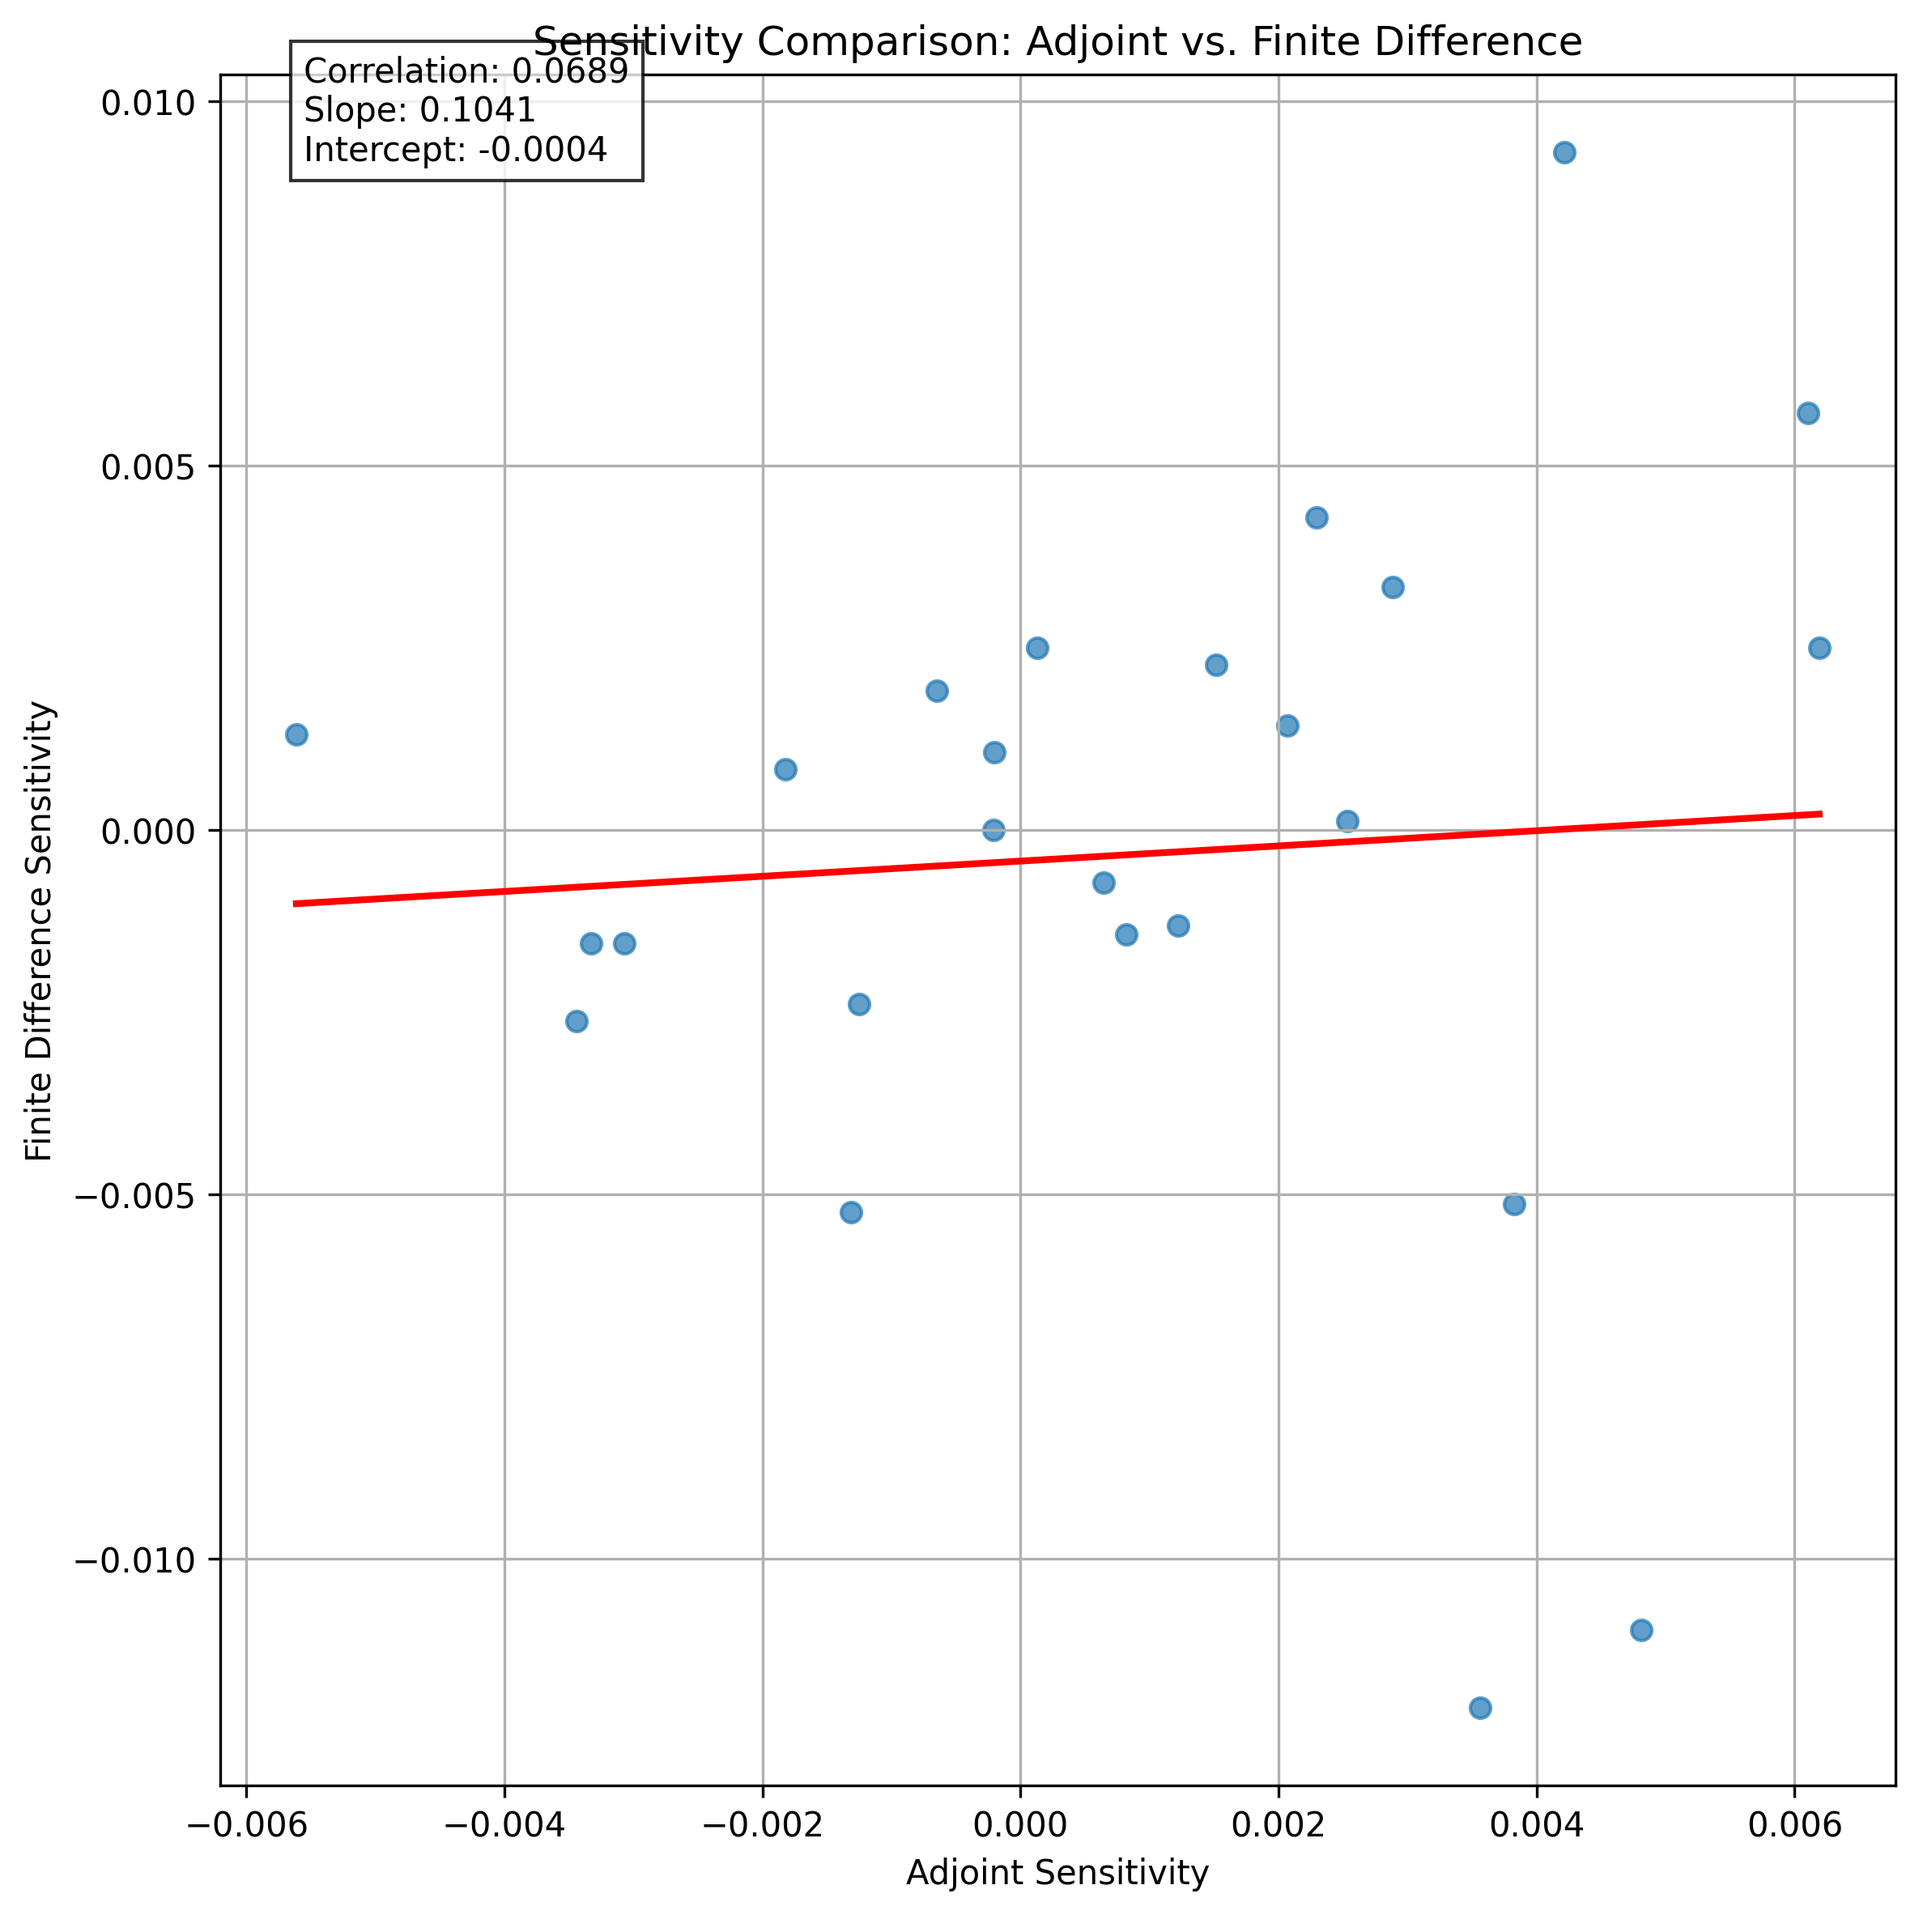
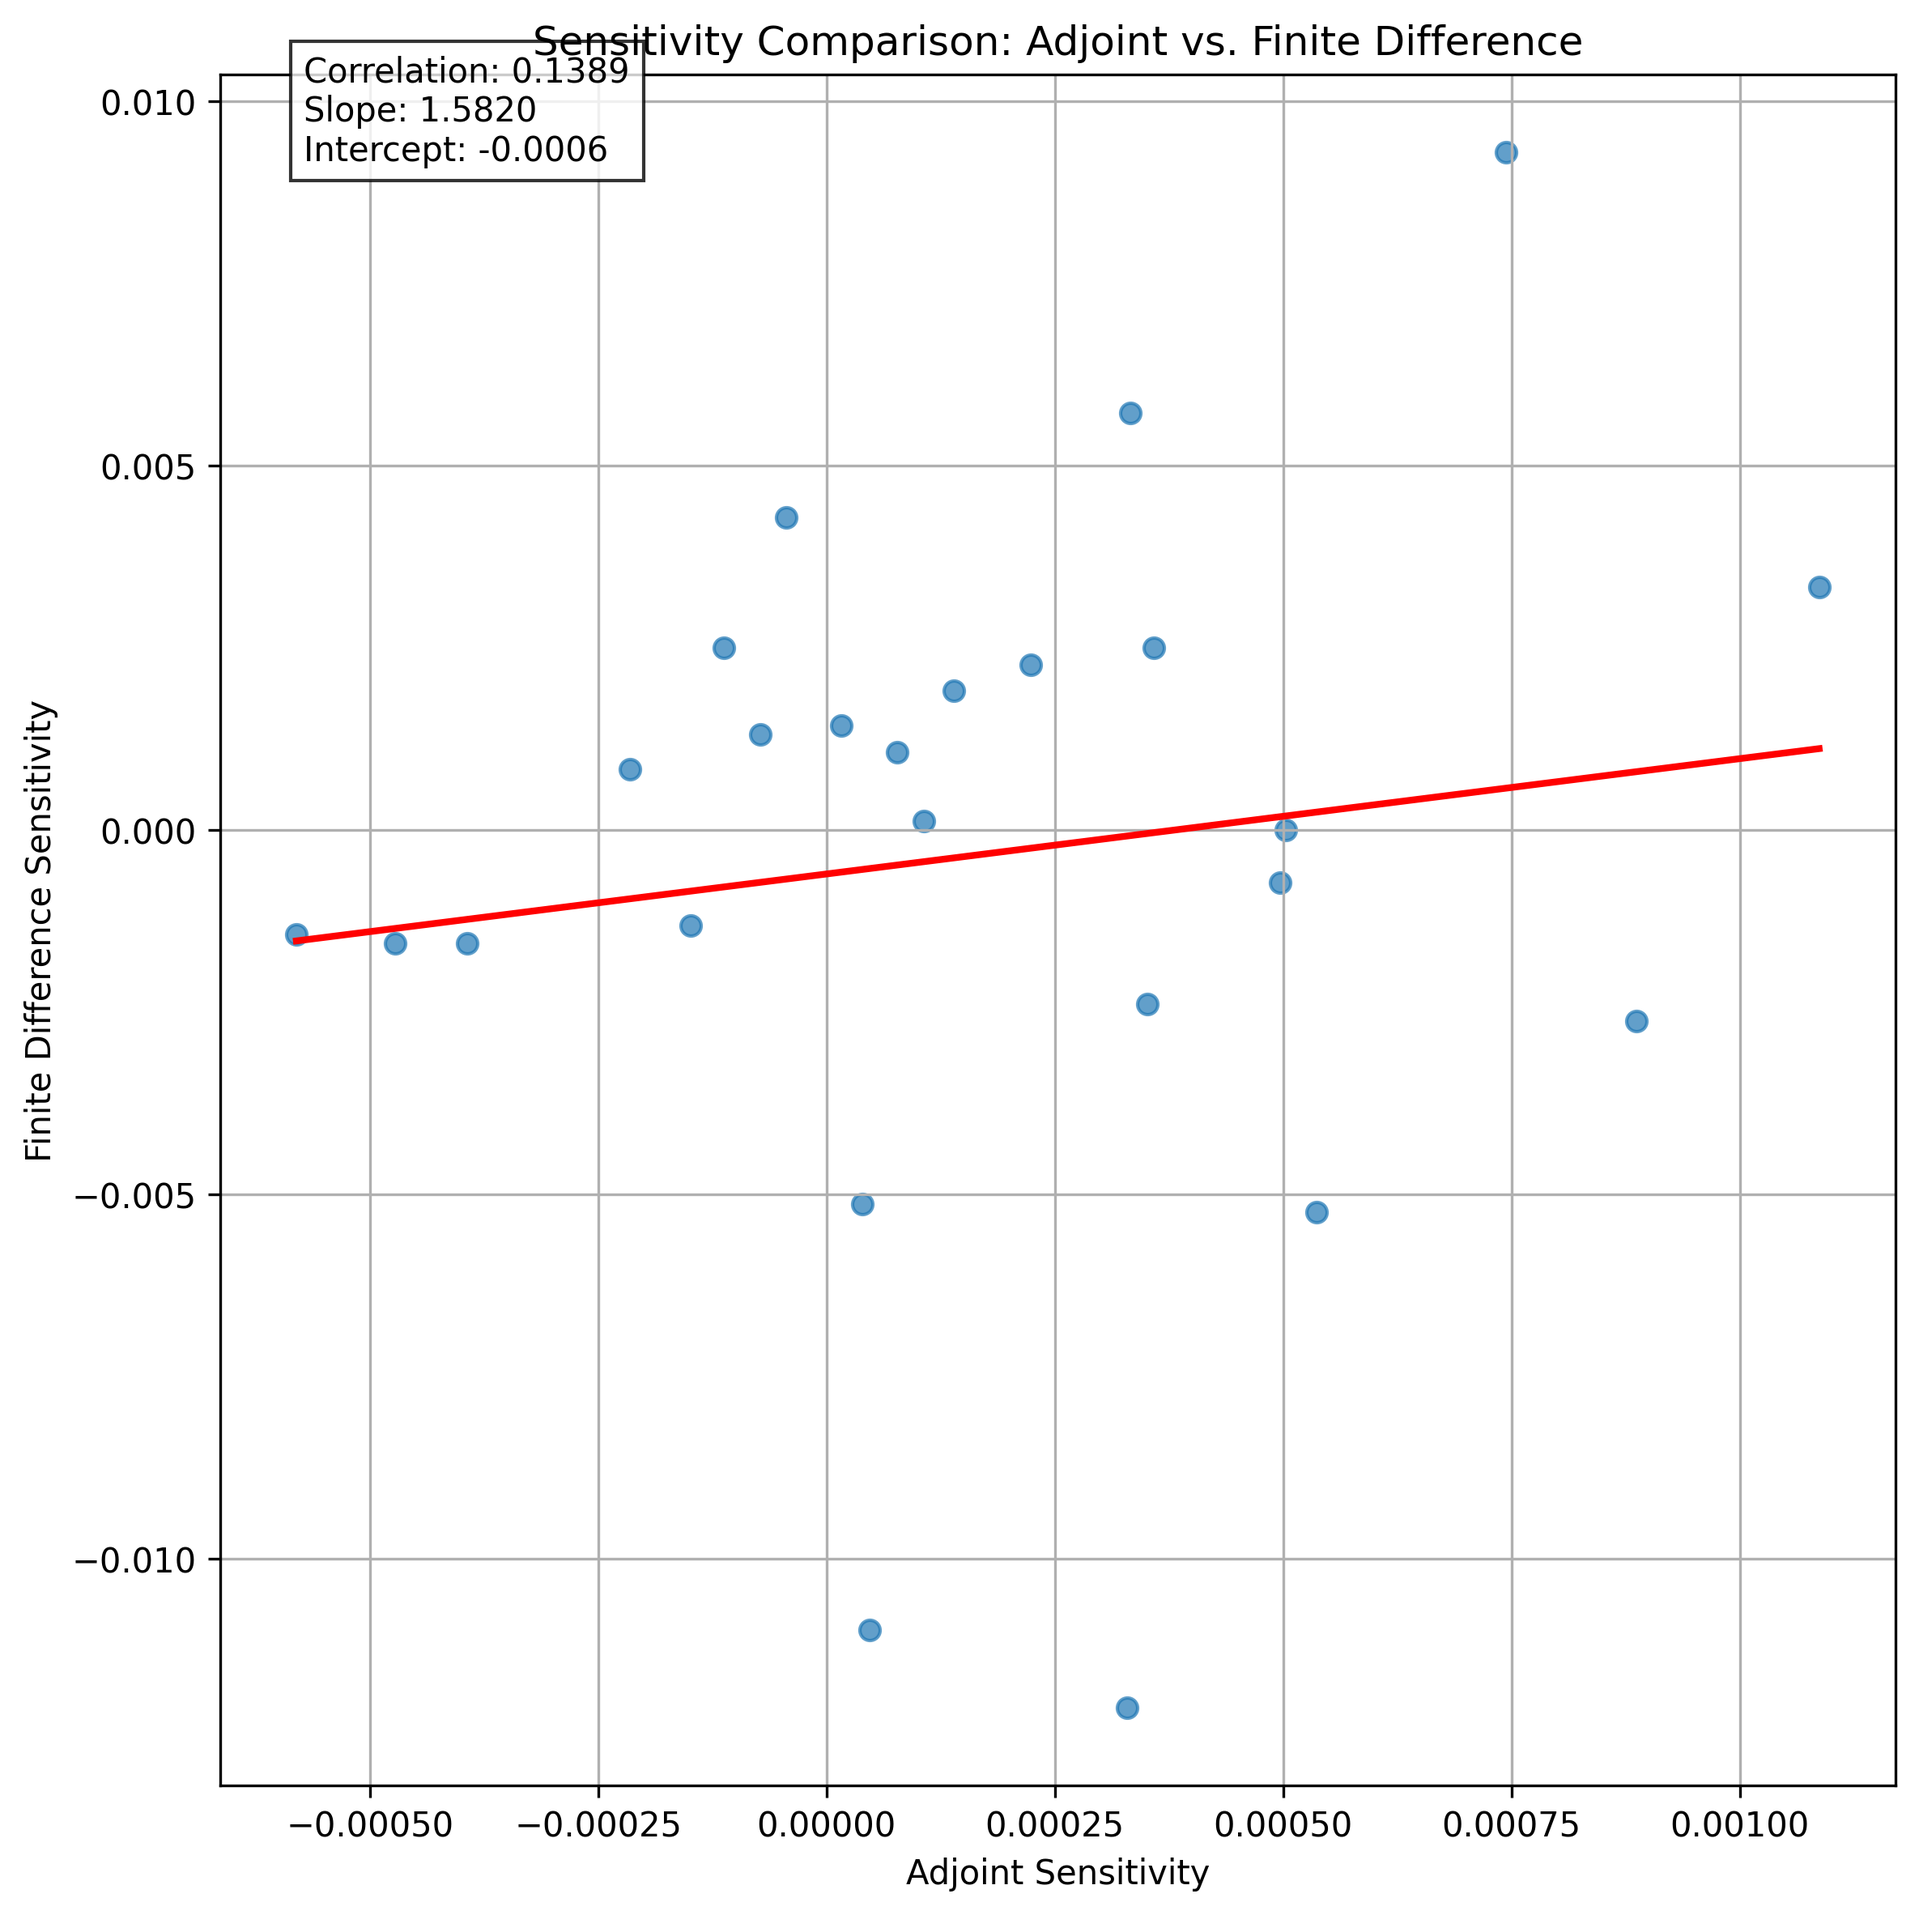
t=20 timescale

diff --git a/Samudra_Testing/samudra_adjoint.py b/Samudra_Testing/samudra_adjoint.py
@@ -22,7 +22,7 @@ import model_adjoint
 ### SETUP STAGE ###
 
 hist = 1
-N_test = 20 # Timesteps to use for testing
+N_test = 40 # Timesteps to use for testing
 state_in_vars_config="3D_thermo_dynamic_all"
 state_out_vars_config=state_in_vars_config
 boundary_vars_config="3D_all_hfds_anom"
@@ -64,7 +64,7 @@ print(f"Our data has the shape {test_data[0][0].shape}")
 
 # Time steps for sensitivity analysis
 initial_time = 0        # Starting time step
-final_time =   10          # Ending time step 
+final_time =   20          # Ending time step 
 
 # Choose channel index to study
 initial_channel_index = 0 
